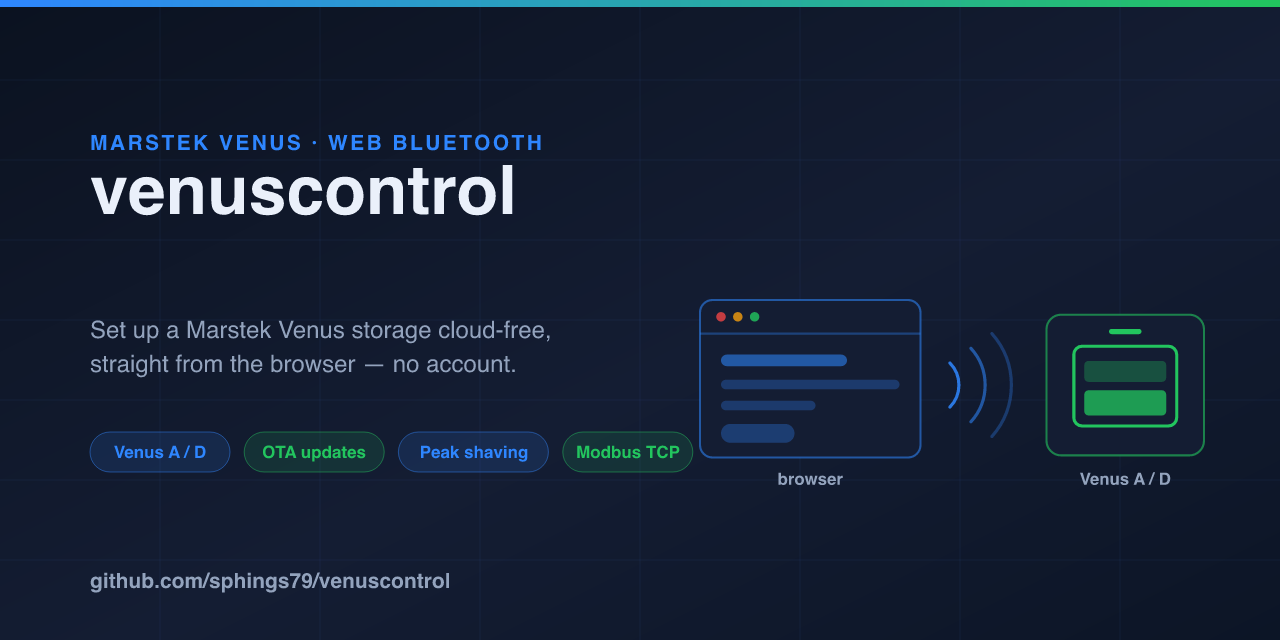
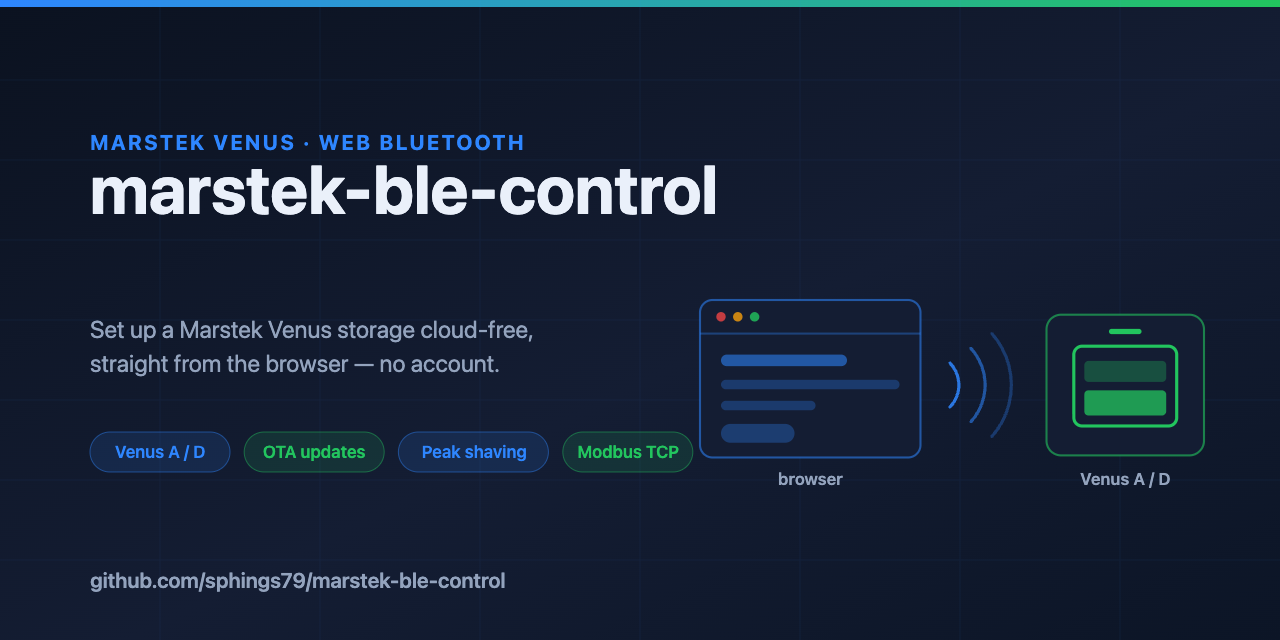
docs: use current repository names in links and artwork

diff --git a/src/lib/projectLinks.ts b/src/lib/projectLinks.ts
@@ -7,5 +7,5 @@ export const PROJECT_LINKS: { label: string; href: string }[] = [
     { label: 'More tools', href: 'https://sphings-dev.de/' },
     { label: 'Firmware Archive', href: 'https://github.com/sphings79/marstek-firmware-archiv' },
     { label: 'FW Backup / Checker', href: 'https://sphings-dev.de/marstek/marstek-fw-checker/' },
-    { label: 'Reverse Engineering', href: 'https://github.com/sphings79/Marstek-Venus-D-Firmware-Reverse-Engineering' },
+    { label: 'Reverse Engineering', href: 'https://github.com/sphings79/Marstek-Venus-Firmware-Reverse-Engineering' },
 ];

diff --git a/README.de.md b/README.de.md
@@ -262,8 +262,8 @@ generischen Geräteansicht.
 - 🌐 **Weitere Projekte und Tools:** [sphings-dev.de](https://sphings-dev.de/)
 - 📦 **Firmware-Archiv für Marstek-Venus-Geräte:** [sphings79/marstek-firmware-archiv](https://github.com/sphings79/marstek-firmware-archiv)
 - 🛡 **Firmware-Backup / Checker:** [marstek-fw-checker](https://sphings-dev.de/marstek/marstek-fw-checker/) — eine Kopie eines Firmware-Abbilds ziehen und zum Archiv beitragen. Hinweis: Eine Firmware lässt sich nur sichern, solange sie noch aussteht, also **bevor sie installiert wurde** — nach dem Flashen kommt man nicht mehr heran.
-- 🔬 **Reverse Engineering der Venus-D-Firmware:** [sphings79/Marstek-Venus-D-Firmware-Reverse-Engineering](https://github.com/sphings79/Marstek-Venus-D-Firmware-Reverse-Engineering)
-- 🏠 **Home-Assistant-Integration über Modbus:** [sphings79/marstek_venus_modbus_dev](https://github.com/sphings79/marstek_venus_modbus_dev)
+- 🔬 **Reverse Engineering der Venus-Firmware:** [sphings79/Marstek-Venus-Firmware-Reverse-Engineering](https://github.com/sphings79/Marstek-Venus-Firmware-Reverse-Engineering)
+- 🏠 **Home-Assistant-Integration über Modbus:** [sphings79/marstek-modbus-suite](https://github.com/sphings79/marstek-modbus-suite)
 
 ## Dank
 

diff --git a/README.md b/README.md
@@ -258,8 +258,8 @@ device view.
 - 🌐 **More projects and tools:** [sphings-dev.de](https://sphings-dev.de/)
 - 📦 **Firmware archive for Marstek Venus devices:** [sphings79/marstek-firmware-archiv](https://github.com/sphings79/marstek-firmware-archiv)
 - 🛡 **Firmware backup / checker tool:** [marstek-fw-checker](https://sphings-dev.de/marstek/marstek-fw-checker/) — grab a copy of a firmware image and contribute it to the archive. Note: firmware can only be backed up while it is still pending, i.e. **before it has been installed** — once flashed, it can no longer be extracted.
-- 🔬 **Venus D firmware reverse engineering:** [sphings79/Marstek-Venus-D-Firmware-Reverse-Engineering](https://github.com/sphings79/Marstek-Venus-D-Firmware-Reverse-Engineering)
-- 🏠 **Home Assistant integration over Modbus:** [sphings79/marstek_venus_modbus_dev](https://github.com/sphings79/marstek_venus_modbus_dev)
+- 🔬 **Venus firmware reverse engineering:** [sphings79/Marstek-Venus-Firmware-Reverse-Engineering](https://github.com/sphings79/Marstek-Venus-Firmware-Reverse-Engineering)
+- 🏠 **Home Assistant integration over Modbus:** [sphings79/marstek-modbus-suite](https://github.com/sphings79/marstek-modbus-suite)
 
 ## Credits
 
